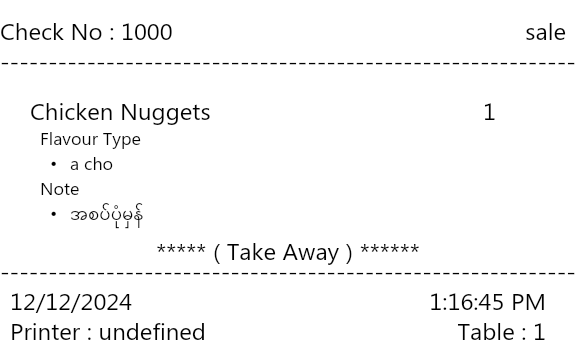
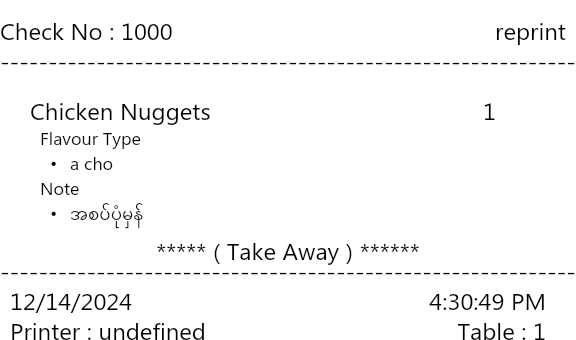
[fix]: calculate stock

Changed region(s): [[0.8438, 0.0588, 1.0, 0.1176], [0.75, 0.8529, 0.875, 0.9118], [0.0938, 0.8529, 0.125, 0.9118]]

diff --git a/src/controllers/transactionController.js b/src/controllers/transactionController.js
@@ -4,7 +4,7 @@ const express = require("express");
 const transactionController = express.Router();
 
 const {PrintSlip} = require("../../printer/Print");
-const {findOrderNo, addTransition, updateTransition, findTransactionAndEmployee, findTransactionItem,
+const {findOrderNo, addTransition, findTransactionAndEmployee, findTransactionItem,
     findTransactionById, updateTransactionVoidById, findItemAndComboSetByTid
 } = require("../models/transaction/transactionModel");
 const {findBranchById, findBranch} = require("../models/branchModel");
@@ -13,9 +13,7 @@ const {fetchOnlineDbTransition, filterKitchenItem, transitionItems} = require(".
 const {findPaymentTypeById} = require("../models/paymentTypeModel");
 const {findDetailByCashierDrawerIdAndType, updateCashierDrawerDetailsById, deleteCashierDrawerDetailsById} = require("../models/cashierDrawer/cashierDrawerDetailModel");
 const {rowBackDrawerAmount} = require("../utils/cashierDrawer");
-const {findTransactionItemsByTransactionId} = require("../models/transaction/transactionItemModel");
-const {addReduceStockQty} = require("../utils/stockControl/inventory");
-const {insertTransactionDetail} = require("../models/transaction/transactionDetailModel");
+const {insertTransactionDetail, getAmountTransactionDetailsByTId} = require("../models/transaction/transactionDetailModel");
 
 transactionController.post("/", async (req, res) => {
     try {
@@ -46,7 +44,7 @@ transactionController.post("/", async (req, res) => {
             branchData = branchResult.rows[0];
         }
         const slipType = "sale";
-        await PrintSlip(employee_name, employee_printer, branchData, table_name, id, grand_total_amount, sub_total_amount, tax_amount, service_charge_amount, discount_amount, discount_name, cash_back, payment, payment_type_id, branch_id, dinner_table_id, add_on, inclusive, point, payment_type_name, orderNo, parsedItems, kitchenPrintItem, promotion, slipType);
+        await PrintSlip(employee_name, employee_printer, branchData, table_name, id, grand_total_amount, sub_total_amount, tax_amount, service_charge_amount, discount_amount, discount_name, cash_back, payment, payment_type_id, branch_id, dinner_table_id, add_on, inclusive, point, payment_type_name, orderNo, parsedItems, kitchenPrintItem, promotion, slipType, appAmount);
 
         // Synchronous with online database
        // await fetchOnlineDbTransition(transitionResult);
@@ -70,9 +68,11 @@ transactionController.post("/reprint", async (req, res) => {
         const transactionItemRes =  await findTransactionItem(transaction_id);
         const {kitchenPrintItem, filterItem} = filterKitchenItem(transactionItemRes);
 
+        const appDisAmount = await getAmountTransactionDetailsByTId(transaction_id);
+
         const slipType = transactionRes.void ? "Void" : "reprint";
         console.log("transitionRouter reprint :", slipType);
-        await PrintSlip(transactionRes.employee_name, transactionRes.employee_printer, branchRes, transactionRes.table_name, transactionRes.id, transactionRes.grand_total_amount, transactionRes.sub_total_amount, transactionRes.tax_amount, transactionRes.service_charge_amount, transactionRes.discount_amount, transactionRes.discount_name, transactionRes.cash_back, transactionRes.payment, transactionRes.payment_type_id, transactionRes.branch_id, transactionRes.dinner_table_id, transactionRes.add_on, transactionRes.inclusive, transactionRes.point, transactionRes.payment_type_name, transactionRes.order_no, filterItem, kitchenPrintItem, transactionRes.promotion_amount, slipType);
+        await PrintSlip(transactionRes.employee_name, transactionRes.employee_printer, branchRes, transactionRes.table_name, transactionRes.id, transactionRes.grand_total_amount, transactionRes.sub_total_amount, transactionRes.tax_amount, transactionRes.service_charge_amount, transactionRes.discount_amount, transactionRes.discount_name, transactionRes.cash_back, transactionRes.payment, transactionRes.payment_type_id, transactionRes.branch_id, transactionRes.dinner_table_id, transactionRes.add_on, transactionRes.inclusive, transactionRes.point, transactionRes.payment_type_name, transactionRes.order_no, filterItem, kitchenPrintItem, transactionRes.promotion_amount, slipType, appDisAmount);
 
         res.json( {error: 0, message: transaction_id });
     }catch (e) {

diff --git a/printer/ui/cashierPrintUi.js b/printer/ui/cashierPrintUi.js
@@ -2,7 +2,7 @@ const { createCanvas, loadImage } = require("@napi-rs/canvas");
 const QRCode = require("qrcode");
 const fs = require("fs");
 
-const cashierPrintSlipBuffer = async (employee_name, branchData, table_name, transitionId, grand_total_amount, sub_total_amount, tax_amount, service_charge_amount, discount_amount, discount_name, cash_back, payment, payment_type_id, branch_id, dinner_table_id, add_on, inclusive, point, payment_type_name, data, orderNo, promotion, slipType) => {
+const cashierPrintSlipBuffer = async (employee_name, branchData, table_name, transitionId, grand_total_amount, sub_total_amount, tax_amount, service_charge_amount, discount_amount, discount_name, cash_back, payment, payment_type_id, branch_id, dinner_table_id, add_on, inclusive, point, payment_type_name, data, orderNo, promotion, slipType, appAmount) => {
   const currentDate = new Date();
   const date = currentDate.toLocaleDateString(),
       time = currentDate.toLocaleTimeString();
@@ -12,7 +12,7 @@ const cashierPrintSlipBuffer = async (employee_name, branchData, table_name, tra
   const { finishHeaderLineH } = await  headerUi(ctx, canvas, branchData, startLineHeight);
   const { finishInfoLineH } = informationUi(ctx, canvas, employee_name, table_name, date, time, orderNo, slipType, finishHeaderLineH);
   const { finishBuyItemLineH } = buyItemUi(ctx, canvas, data, finishInfoLineH);
-  const { finishPaymentInfoLineHeight } = paymentInformationUi(ctx, canvas, finishBuyItemLineH, sub_total_amount, discount_amount, promotion, tax_amount, grand_total_amount, payment_type_name, payment, cash_back, point);
+  const { finishPaymentInfoLineHeight } = paymentInformationUi(ctx, canvas, finishBuyItemLineH, sub_total_amount, discount_amount, promotion, tax_amount, grand_total_amount, payment_type_name, payment, cash_back, point, appAmount);
 
   footerStartLineHeight = finishPaymentInfoLineHeight;
   if (point > 0) {
@@ -56,11 +56,11 @@ const slipHeight = (data, point) => {
     }
   });
 
-  const originalHeight = point > 0 ? 1000 : 800;
+  const originalHeight = point > 0 ? 1200 : 900;
   let canvasHeight = originalHeight + data.length * 50 + flavourTypeDataLength * 30 + containerDataLength * 25 + discountDataLength * 25;
   const canvas = createCanvas(576, canvasHeight);
   const ctx = canvas.getContext("2d");
-  ctx.fillStyle = "black";
+  ctx.fillStyle = "white";
 
   const startLineHeight = 0;
   const footerStartLineHeight = 0;
@@ -208,11 +208,12 @@ const buyItemUi = (ctx, canvas, data, finishInfoLineH) => {
   return { finishBuyItemLineH };
 };
 
-const paymentInformationUi = (ctx, canvas, finishBuyItemLineH, sub_total_amount, discount_amount, promotion, tax_amount, grand_total_amount, payment_type_name, payment, cash_back, point) => {
+const paymentInformationUi = (ctx, canvas, finishBuyItemLineH, sub_total_amount, discount_amount, promotion, tax_amount, grand_total_amount, payment_type_name, payment, cash_back, point, appAmount) => {
   const subTotalHeight = finishBuyItemLineH + 20;
   const discountHeight = subTotalHeight + 30;
   const taxHeight = discountHeight + 30;
-  const firstLineHeight = taxHeight + 20;
+  const appDisHeight = taxHeight + 30;
+  const firstLineHeight = appDisHeight + 20;
 
   ctx.font = "24px Myanmar Text";
   ctx.textAlign = "start";
@@ -229,6 +230,11 @@ const paymentInformationUi = (ctx, canvas, finishBuyItemLineH, sub_total_amount,
   ctx.fillText("Tax ( 5% )", 30, taxHeight);
   ctx.textAlign = "right";
   ctx.fillText(Number(tax_amount).toLocaleString("en-US"), canvas.width - 10, taxHeight);
+
+  ctx.textAlign = "start";
+  ctx.fillText("App Dis", 30, appDisHeight);
+  ctx.textAlign = "right";
+  ctx.fillText(Number(appAmount ? -appAmount : 0).toLocaleString("en-US"), canvas.width - 10, appDisHeight);
 
   ctx.textAlign = "start";
   ctx.fillText(`-----------------------------------------------------------------------------------------------------------`, 0, firstLineHeight);

diff --git a/printer/Print.js b/printer/Print.js
@@ -3,9 +3,9 @@ const {networkPrinterPrint} = require("./networkPrinterPrint");
 const kitchenPrintSlipBuffer = require("./ui/kitchenPrintUi");
 const cashierDrawerPrintSlipBuffer = require("./ui/cashierDrawerPrintUi");
 
-const PrintSlip = async (employee_name, employee_printer, branchData, table_name, id, grand_total_amount, sub_total_amount, tax_amount, service_charge_amount, discount_amount, discount_name, cash_back, payment, payment_type_id, branch_id, dinner_table_id, add_on, inclusive, point, payment_type_name, orderNo, parsedItems, kitchenPrintItem, promotion, slipType) => {
+const PrintSlip = async (employee_name, employee_printer, branchData, table_name, id, grand_total_amount, sub_total_amount, tax_amount, service_charge_amount, discount_amount, discount_name, cash_back, payment, payment_type_id, branch_id, dinner_table_id, add_on, inclusive, point, payment_type_name, orderNo, parsedItems, kitchenPrintItem, promotion, slipType, appAmount) => {
     //  printer state
-    const cashierSlipBuffer = await cashierPrintSlipBuffer(employee_name, branchData, table_name, id, grand_total_amount, sub_total_amount, tax_amount, service_charge_amount, discount_amount, discount_name, cash_back, payment, payment_type_id, branch_id, dinner_table_id, add_on, inclusive, point, payment_type_name, parsedItems, orderNo, promotion, slipType);
+    const cashierSlipBuffer = await cashierPrintSlipBuffer(employee_name, branchData, table_name, id, grand_total_amount, sub_total_amount, tax_amount, service_charge_amount, discount_amount, discount_name, cash_back, payment, payment_type_id, branch_id, dinner_table_id, add_on, inclusive, point, payment_type_name, parsedItems, orderNo, promotion, slipType, appAmount);
     networkPrinterPrint(cashierSlipBuffer, employee_printer);
 
     for (const each of kitchenPrintItem) {

diff --git a/src/models/transaction/transactionDetailModel.js b/src/models/transaction/transactionDetailModel.js
@@ -1,5 +1,15 @@
 const poolQuery = require("../../../misc/poolQuery");
 
+const getAmountTransactionDetailsByTId = async (transactionId) => {
+    const { rows: transactionDetails } = await poolQuery(`
+        SELECT amount FROM transaction_details
+        WHERE transaction_id = $1;
+    `, [transactionId]);
+
+    console.log(`transactionDetailMode [getTransactionDetailsByTId] transactionDetailsAmount: `, transactionDetails[0]?.amount)
+    return transactionDetails[0]?.amount;
+}
+
 const insertTransactionDetail = async (appName, amount, couponId, memberId, transactionId) => {
     const { rowCount } = await poolQuery(`
         INSERT INTO transaction_details(name, amount, coupon_id, member_id, transaction_id)
@@ -13,4 +23,4 @@ const insertTransactionDetail = async (appName, amount, couponId, memberId, tran
     console.log("[insertTransactionDetail] Insert Transaction Detail successfully");
 };
 
-module.exports = { insertTransactionDetail };
+module.exports = { getAmountTransactionDetailsByTId, insertTransactionDetail };

diff --git a/src/models/stock/stockItemsModel.js b/src/models/stock/stockItemsModel.js
@@ -33,7 +33,7 @@ const getStockItemAndRecipeByMenuId = async (menuId, takeAway, menuQty) => {
             ON recipes.id = menu_recipe_items.recipe_id
         LEFT JOIN normal_menu_items
             ON menu_recipe_items.menu_id = normal_menu_items.id
-        WHERE normal_menu_items.id = $1 AND recipe_items.type = $2;
+        WHERE normal_menu_items.id = $1 AND recipe_items.type = "dine_in" OR recipe_items.type = $2;
     `, [menuId, takeAway]);
 
     if(stockItemData.length === 0){

diff --git a/printer/ui/cashierDrawerPrintUi.js b/printer/ui/cashierDrawerPrintUi.js
@@ -24,7 +24,7 @@ const slipHeight = (cashierDrawerDetail) => {
 
     const canvas = createCanvas(576, canvasHeight);
     const ctx = canvas.getContext("2d");
-    ctx.fillStyle = "black";
+    ctx.fillStyle = "white";
     const startLineHeight = 0;
 
     return { canvas, ctx, startLineHeight }
